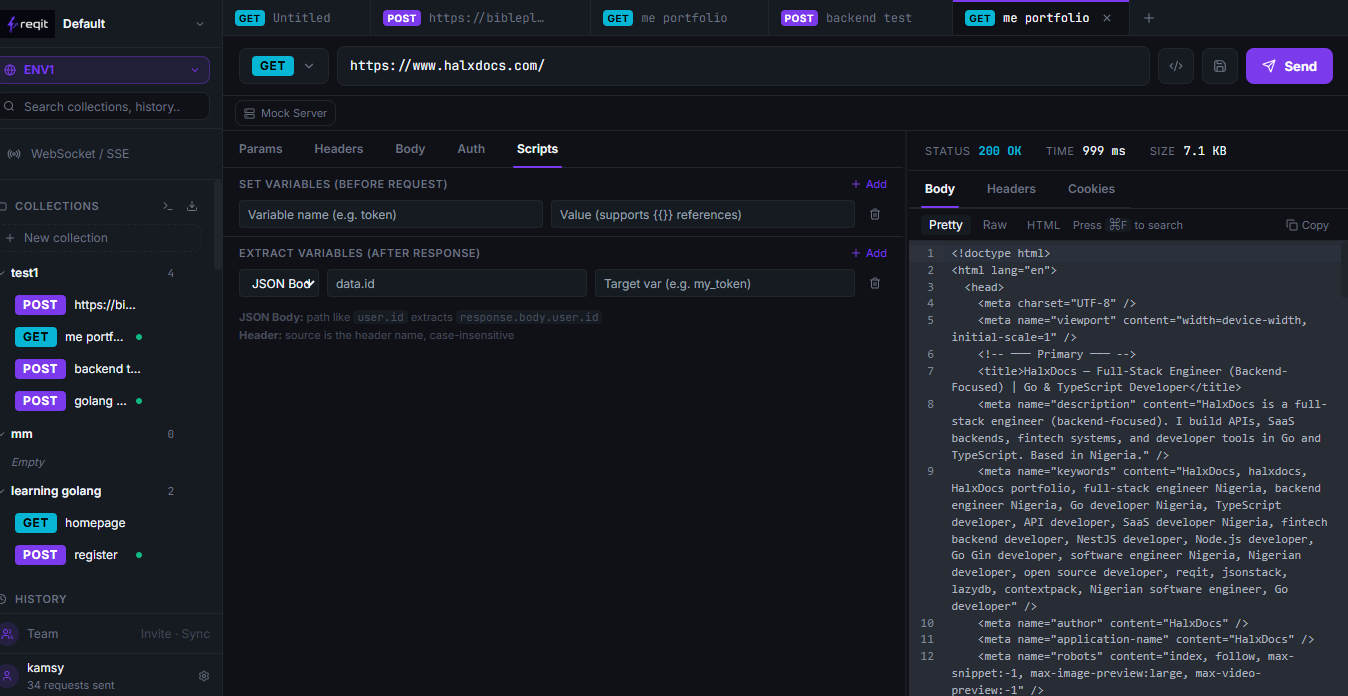
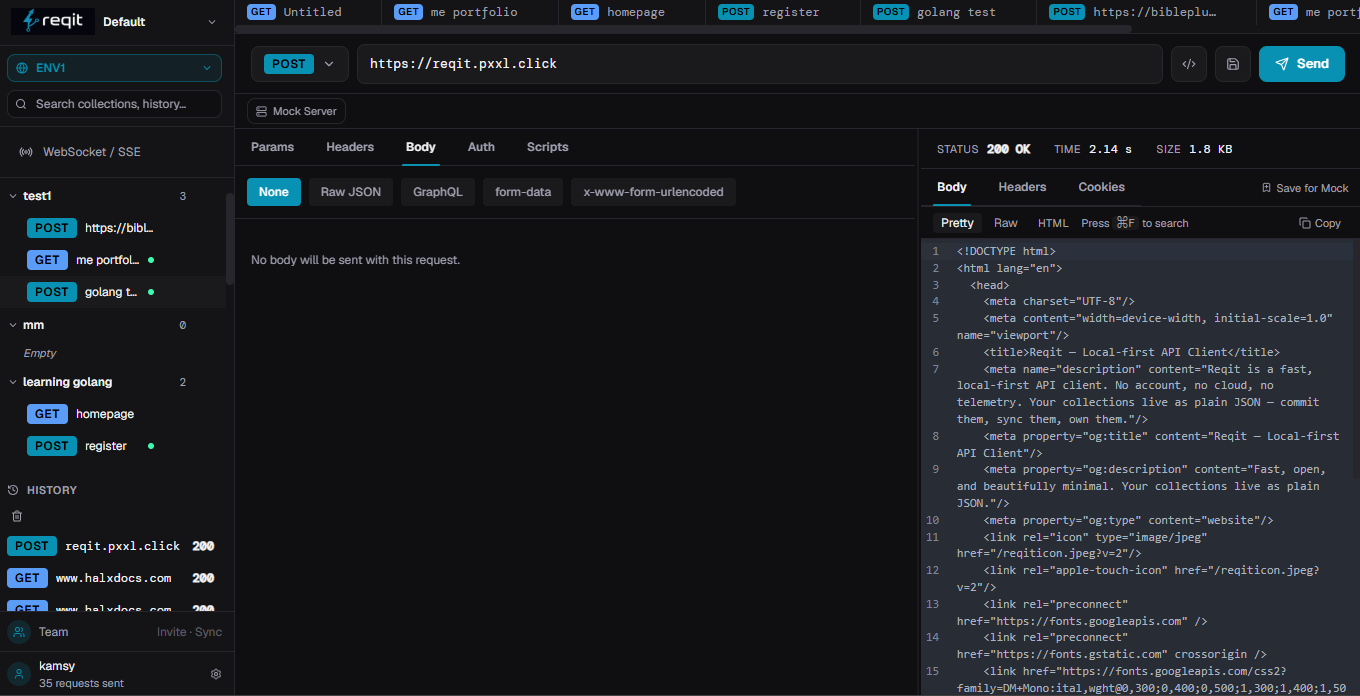
Update gallery screenshots: script, graphql, collections, main

diff --git a/flux/frontend/src/web/WebApp.tsx b/flux/frontend/src/web/WebApp.tsx
@@ -100,7 +100,8 @@ const FEATURES = [
 const SCREENSHOTS = [
   { src: "/screenshot-main.png", alt: "reqit main interface" },
   { src: "/screenshot-collections.png", alt: "reqit collections view" },
-  { src: "/screenshot-socket.png", alt: "reqit WebSocket client" },
+  { src: "/script.png", alt: "reqit script sandbox" },
+  { src: "/graphql.png", alt: "reqit GraphQL editor" },
 ];
 
 function AppMockup() {